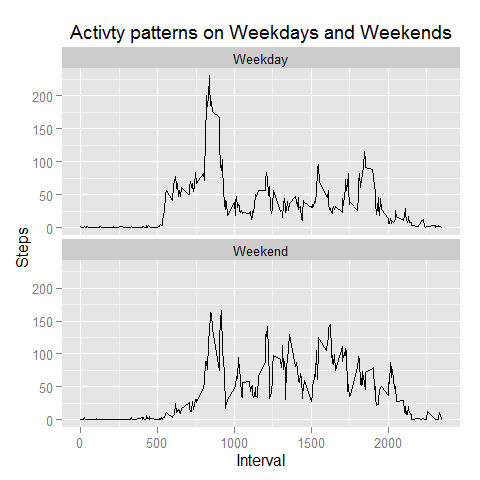
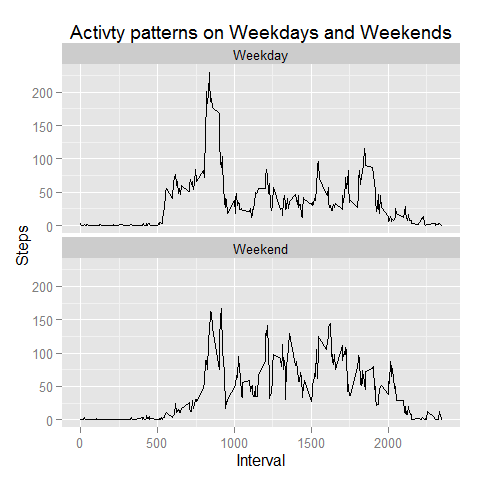
typos amended

diff --git a/PA1_template.html b/PA1_template.html
@@ -180,8 +180,8 @@ names(meanperdaygroup) &lt;- c(&quot;weekzone&quot;,&quot;Interval&quot;,&quot;S
 <pre><code>## Warning: package 'ggplot2' was built under R version 3.1.3</code></pre>
 <pre class="r"><code>ggplot(meanperdaygroup, aes(Interval, Steps)) + geom_line() + 
     facet_wrap(~weekzone, ncol = 1) + 
-    labs(title = expression(&quot;Activty patterns on Weekdays and Weekends&quot;))</code></pre>
[1 lines of base64/hex data omitted]
+    labs(title = &quot;Activty patterns on Weekdays and Weekends&quot;)</code></pre>
[1 lines of base64/hex data omitted]
 <p>The graph shows that on average the subject has more steps at the weekend. The<br />exception to this is the large peak at 8:30 on weekdays. This might be the time<br />when the subject walks to work, where, in general he is not moving around much.<br />The subject appears to get up much earlier on weekdays also.</p>
 </div>
 

diff --git a/PA1_template.md b/PA1_template.md
@@ -215,7 +215,7 @@ library("ggplot2")
 ```r
 ggplot(meanperdaygroup, aes(Interval, Steps)) + geom_line() + 
     facet_wrap(~weekzone, ncol = 1) + 
-    labs(title = expression("Activty patterns on Weekdays and Weekends"))
+    labs(title = "Activty patterns on Weekdays and Weekends")
 ```
 
 ![](PA1_template_files/figure-html/unnamed-chunk-17-1.png) 
